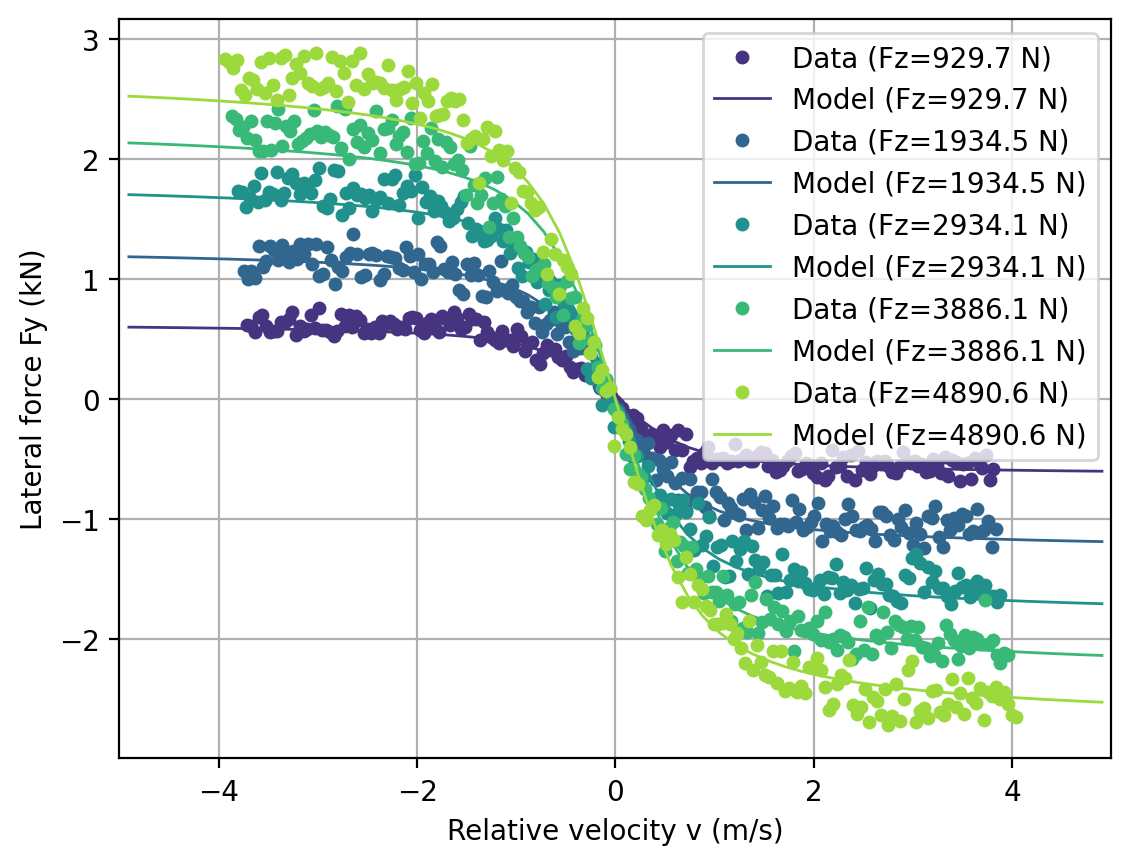
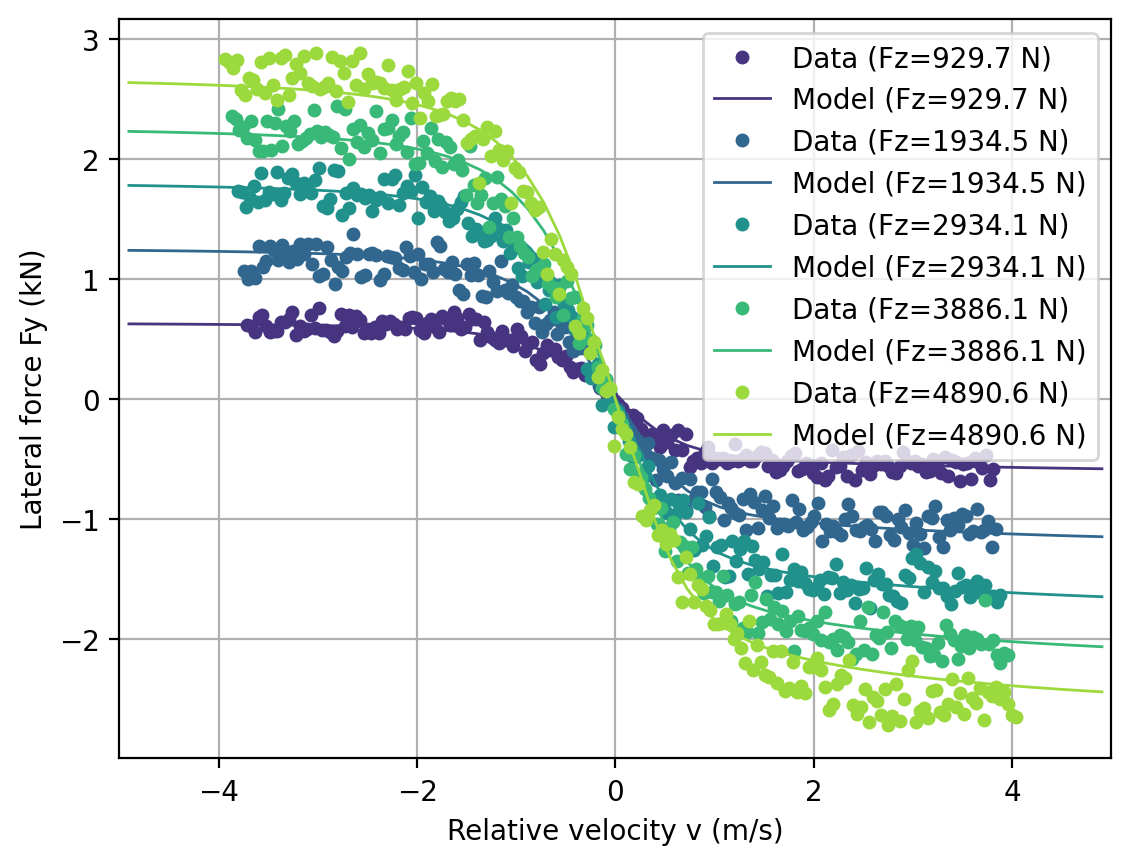
First complete set of runs.

diff --git a/src/sr_tire/models/flex_runs/summary.tex b/src/sr_tire/models/flex_runs/summary.tex
@@ -2,16 +2,16 @@
 \usepackage{booktabs}
 \begin{document}
 \section*{Flex SR Run Summary}
-Total runs: 2\\
-Best test $R^2$ run: 001\\
+Total runs: 5\\
+Best test $R^2$ run: 005\\
 \begin{table}[ht]
 \centering
 \begin{tabular}{lrrrr}
 \toprule
 Statistic & $R^2 train$ & $R^2 test$ & RMSE train & RMSE test \\
 \midrule
-Median & 0.986706 & 0.990840 & 0.059742 & 0.043327 \\
-Best test $R^2$ (run 001) & 0.987638 & 0.991253 & 0.057645 & 0.042349 \\
+Median & 0.988165 & 0.992507 & 0.056401 & 0.039196 \\
+Best test $R^2$ (run 005) & 0.988150 & 0.992929 & 0.056437 & 0.038076 \\
 \bottomrule
 \end{tabular}
 \caption{Median metrics across repeated Flex SR runs and the metrics of the run with the best test $R^2$.}
